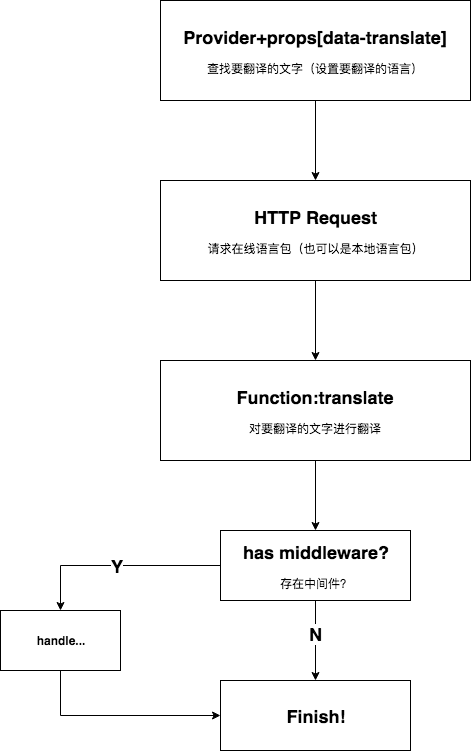
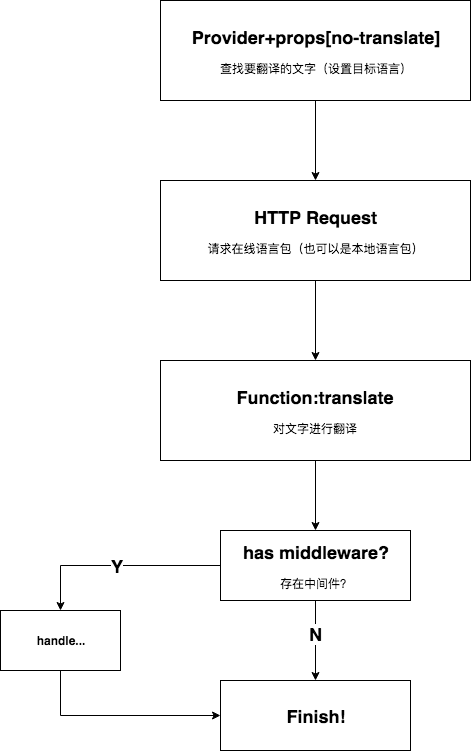
修改一些语言逻辑和格式问题

Changed region(s): [[0.3864, 0.0306, 0.9512, 0.1225], [0.535, 0.5513, 0.8025, 0.5819]]

diff --git a/source/_posts/jiangxiang/Internationalize your React project.md b/source/_posts/jiangxiang/Internationalize your React project.md
@@ -18,12 +18,12 @@ React最早由Facebook的软件工程师Jordan Walke创建，它在2011年首次
 2.动态翻译
 3.生成多个版本
 
-比较流行的为webpack团队基于打包时翻译的webpack-i18-plugin和yahoo团队基于动态翻译的React-intl
+比较流行的为webpack团队基于打包时翻译的webpack-i18n-plugin和yahoo团队基于动态翻译的React-intl
 
 ### 1.2 对比
 
 1.打包时翻译
-优点:方案比较成熟，已有成功案例
+优点:方案比较成熟，已有成功案例（如很多咨询网站、博客，如mdn）
 缺点:翻译表一旦更新，需要重新打包发布，本地要维护大量的翻译表文件，过于繁琐
 2.动态翻译
 优点:灵活，翻译表放进cdn一句sql可以更新，可操作性强
@@ -36,8 +36,8 @@ React最早由Facebook的软件工程师Jordan Walke创建，它在2011年首次
 
 ### 3.1 翻译语法
 
-语法分为批量翻译、单句翻译
-通过Provider包裹或通过date-translate属性实现两种形式的翻译
+语法分为批量翻译或指定单句不翻译
+具体通过Provider类以及属性no-translate实现
 ```
 // 批量翻译
 <Provider value={{
@@ -46,8 +46,8 @@ React最早由Facebook的软件工程师Jordan Walke创建，它在2011年首次
 }}>
     ... (要翻译的代码块)
 </Provider>
-// 单句翻译
-<div data-translate>...(要翻译的字符串)</div>
+// 指定不翻译
+<div no-translate>...(不翻译的字符串)</div>
 ```
 
 ### 3.2 方便获取在线的语言包
@@ -62,7 +62,7 @@ React最早由Facebook的软件工程师Jordan Walke创建，它在2011年首次
 3.再对要翻译的文字进行翻译
 三步
 
-基于以上基本思路再思考，我们都知道，JSX是react的语法糖，而使用高阶函数React.createElement可以重新定义组件的渲染，我们只需要将要翻译的文字在该方法中处理即可。
+基于以上基本思路再思考，我们都知道，JSX是react的语法糖，而使用高阶函数``React.createElement``可以重新定义组件的渲染，我们只需要将要翻译的文字在该方法中处理即可。
 
 以下两种写法经babel转义，本质上没有区别！
 
@@ -78,7 +78,7 @@ ReactDOM.render(
   document.getElementById('root')
 );
 ```
-基于这个想法，通过设置data-translate属性，<Provider/>，并在createElement中判断，就知道哪里的文字需要翻译，也知道要翻译成哪种语言了（第一步）！
+基于这个想法，通过设置no-translate属性，<Provider/>，并在createElement中判断，就知道哪里的文字需要翻译，也知道要翻译成哪种语言了（第一步）！
 (第二步比较简单，暂时忽略...)
 再定义一个translate函数，接受文字，语言包和翻译表，返回翻译后的文字（第三步）
 
@@ -98,16 +98,25 @@ languageMap一定得是单例模式，方便全局调用
 
 ### 4.2 再写一个translate函数
 
-```
-function translate(content, languageMap, language){}
-```
-任何需要翻译的地方，都将会使用这个函数
-它接受三个参数 content:要翻译的文字
-             languageMap:语言包
-             language:语言类型
+任何需要翻译的地方，都将会使用这个translate函数，它接受三个参数:
+* content:要翻译的文字
+* languageMap:语言包
+* language:语言类型
+
+middleware作为中间件，可以操作翻译前后的字段，可以解决一些兼容性问题，或者实现一些彩蛋的效果...
 
 代码如下：
 ```
+const middleware = {
+  merge: function(obj) {
+    Object.keys(obj).forEach(function(key) {
+      if (key !== "merge") {
+        middleware[key] = obj[key];
+      }
+    });
+  }
+};
+
 const translate = (content, languageMap, language) => {
   if (!content) {
     return "";
@@ -115,11 +124,15 @@ const translate = (content, languageMap, language) => {
   if (!language) {
     throw new Error("you should define specific language type!");
   }
+  // beforeRender middleware
+  if (middleware.beforeRender) content = middleware.beforeRender(content);
   // translate words
   if (language && languageMap && languageMap[language]) {
     languageMap[language][content] &&
       (content = languageMap[language][content]);
   }
+  // afterRender middleware
+  if (middleware.afterRender) content = middleware.afterRender(content);
   return content;
 };
 ```
@@ -135,17 +148,30 @@ export const { Provider, Consumer } = React.createContext();
 ```
 在创建一个./core/translateClass
 ```
+import React from "react";
+import { translate } from "./translate";
+import { Consumer } from "./context";
+
 class Translate extends React.Component {
   render() {
+    const noTranslate = this.props["no-translate"];
     return (
       <Consumer>
         {context =>
-          translate(this.props.children, context.languageMap, context.language)
+          noTranslate
+            ? this.props.children
+            : translate(
+                this.props.children,
+                context.languageMap,
+                context.language
+              )
         }
       </Consumer>
     );
   }
 }
+
+export default Translate;
 ```
 代码放在./core/translateClass.jsx中
 
@@ -161,12 +187,15 @@ import { Consumer } from "./context";
 const createElement = React.createElement;
 
 React.createElement = (...args) => {
-  console.log(args);
   let children = args.slice(2);
 
   children = children.map(child => {
     if (typeof args[0] === "string" && typeof child === "string") {
-      return <Translate>{child}</Translate>;
+      if (args[1] && args[1]["no-translate"]) {
+        return <Translate no-translate>{child}</Translate>;
+      } else {
+        return <Translate>{child}</Translate>;
+      }
     }
     return child;
   });
@@ -176,15 +205,17 @@ React.createElement = (...args) => {
 ```
 
 可以看到一个ReactDom，包含了$$typeof,props,ref等属性，将其children获取到，进行如下判断：
-1.如果类型是Object就不做任何操作
-2.如果child类型是字符串就进行翻译
+1. 如果类型是Object就不做任何操作
+2. 如果child类型是字符串就进行翻译
+3. 如带有no-translate属性将不对其进行翻译
 
-通过改变Provider的位置，可以设置不同区块的context，这样可以改变不同区块的翻译参数
+通过改变Provider的位置，可以设置不同区块的context，这样可以改变不同区块的翻译表和语言类型
+
 
 代码放在./core/translateTag.jsx
 如上，translate工具类基本完成
 
-## 五、写一个页面进行测试
+## 五、进行测试
 
 ```
 import React, { Component } from "react";
@@ -193,6 +224,16 @@ import languageMap from "./core/languageMap";
 import { translate, middleware } from "./core/translate";
 import { Provider } from "./core/context";
 import "./core/translateTag.jsx";
+
+// 控制字符反转 打开注释可以看到
+middleware.merge({
+  // afterRender: content => {
+  //   return content
+  //     .split("")
+  //     .reverse()
+  //     .join("");
+  // }
+});
 
 const styles = {
   fontFamily: "sans-serif",
@@ -209,14 +250,26 @@ class App extends Component {
   }
 
   fetchTranslateList() {
-    languageMap["en"] = {
-      你好: "Hello",
-      国际化: "intl"
-    };
-    languageMap["france"] = {
-      你好: "Bonjour",
-      国际化: "intl"
-    };
+    let flag = 0;
+
+    setInterval(() => {
+      if (flag === 0) {
+        languageMap["en"] = {};
+        languageMap["france"] = {};
+        flag = 1;
+      } else {
+        languageMap["en"] = {
+          你好: "Hello",
+          国际化: "intl"
+        };
+        languageMap["france"] = {
+          你好: "Bonjour",
+          国际化: "intl"
+        };
+        flag = 0;
+      }
+      this.setState({});
+    }, 1000);
   }
 
   render() {
@@ -230,7 +283,10 @@ class App extends Component {
             <span>
               你好
               <Provider value={franceConfig}>
-                <h1>你好</h1>
+                <h1 no-translate>
+                  你好
+                  <div>国际化</div>
+                </h1>
                 <span>国际化</span>
               </Provider>
             </span>
@@ -246,16 +302,18 @@ ReactDom.render(
   document.body.appendChild(document.createElement("div"))
 );
 ```
-以上代码，我们创建了一个入口文件，分别将中文翻译成了英文和法文，最终代码运行没有问题，证明工具可以使用！
+以上代码，我们创建了一个入口文件，分别将中文翻译成了英文和法文，最终运行正常，证明工具可以使用！
 
 ## 六、兼容性
 
 写这个工具的初衷当然是无缝兼容各种react项目，但事实上并不简单
-举例来说，由于目前出现了很多前端流行的组件库：
+举例来说，目前出现的很多的前端组件库与这个工具有很多兼容性冲突，这些库主要有：
 1.ant-design/ant-mobile（蚂蚁金服团队的前端UI组件库，链接：https://ant.design/index-cn）
 2..Element of react（饿了么团队的前端UI组件库react版本，链接：https://eleme.github.io/element-react/）
 等等...
-实际操作中发现了很多不兼容的问题，想必要做到开箱即用是不可能了~~~
+
+
+实际操作中发现了不兼容的问题很多，想必要做到开箱即用是不可能了~~~
 寄希望于无缝兼容 不如提供中间件接口来让使用者自行配置 o(╥﹏╥)o
 
 ### 6.1 ant-design
@@ -277,16 +335,28 @@ filter.forAntDesign = (props,language) => {
                     }
                 }
             }
-            return <input {...props} ref="input" data-translated onInput={e => {this.value = e.target.value; this.props.onInput && this.props.onInput(e);}}>{this.props.children}</input>
+            return <input
+                {...props}
+                ref="input"
+                onInput={e => {this.value = e.target.value; this.props.onInput && this.props.onInput(e);}}>
+                {this.props.children}
+            </input>
 }
 ```
-ant-design中 Select组件的选中时对比，约定value===children.text时且key=== 所以如果翻译的话 也要将value一起翻译，这些都可以通过增加中间件，修改props.children的过滤规则处理
+通过如上对placeholder的过滤操作，可以实现ant-design输入框的多语言翻译。
+再如，Select组件，它约定元素option的属性value强等于内容children时才认为当前选项是被选中，解决办法这里不再赘述，它们都可以通过增加中间件，修改props.children的过滤机制进而解决！
 
-### 6.2 也有一些框架或者自行编写的组件，如.Element for react，一些dom文字并不会放在text中，这就需要额外的编写特殊的filter了
+
+### 6.2 .Element
+也有一些框架或者自行编写的组件，如.Element for react，一些dom文字并不会放在text中，更确切地说其组件内部进行了重构，并不会将文字简单的向外展示，这就需要额外的编写特殊的filter了
+
 
 ## 七、总结
 到这里，我们的React国际化工具已经实现了，这里是一个简单的在线demo
+
+
 <iframe src="https://codesandbox.io/embed/64zx97v9qr" style="width:100%; height:500px; border:0; border-radius: 4px; overflow:hidden;" sandbox="allow-modals allow-forms allow-popups allow-scripts allow-same-origin"></iframe>
 完整代码参考 github: https://github.com/ranrantu/react-i18
+
 
 总之，这可以说是react动态翻译的一种思路，这种实现至今还是有不足的地方，还请各位拍砖指正，感谢！
